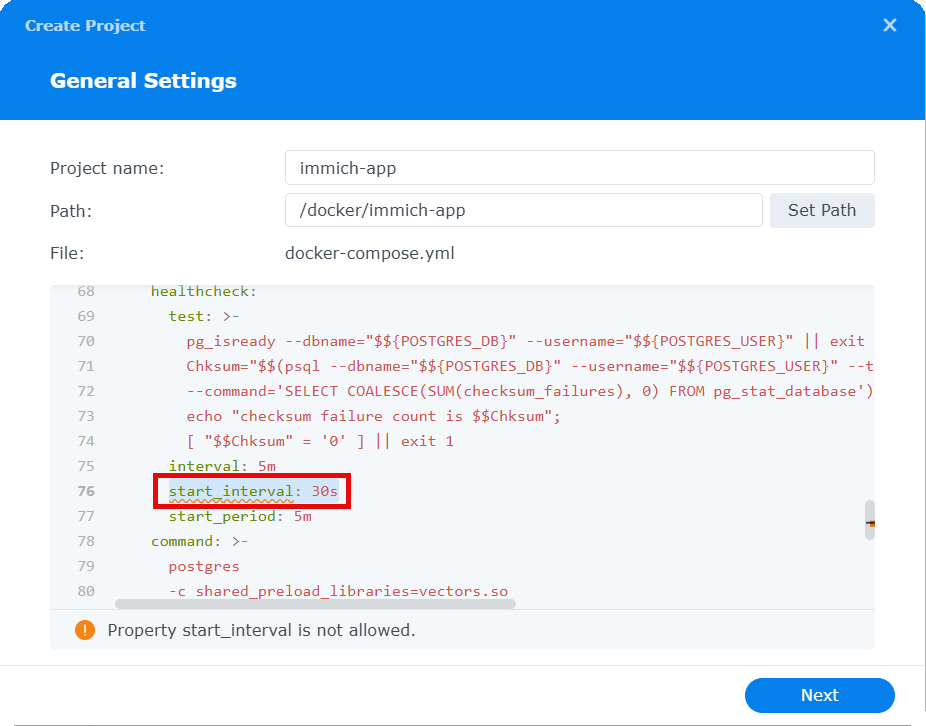
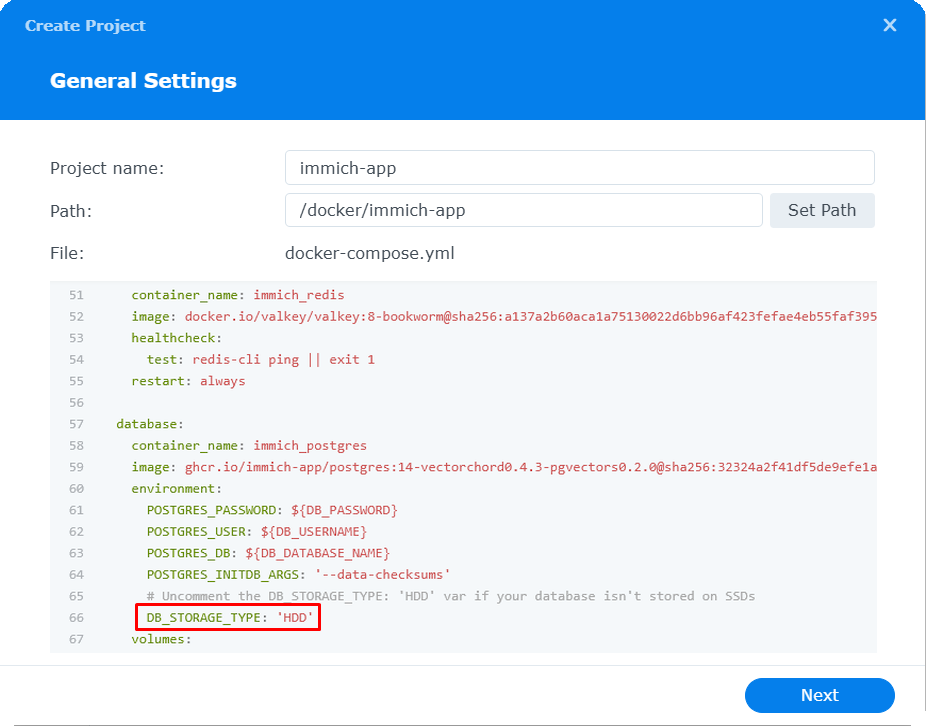
docs: update Synology install guide (#21996)

Changed region(s): [[0.0605, 0.3939, 0.9374, 0.9091], [0.6955, 0.8182, 0.8164, 0.8485], [0.9071, 0.697, 0.9676, 0.7576]]

diff --git a/docs/docs/install/synology.md b/docs/docs/install/synology.md
@@ -16,7 +16,7 @@ Immich can easily be installed on a Synology NAS using Container Manager within 
 
 ## Step 1 - Download the required files
 
-Create a directory of your choice (e.g. `./immich-app`) to house Immich. In general, it's a best practice to have all Docker-based applications running under the `./docker` directory, so in this case, your directory structure will look like `./docker/immich-app`.
+Create a directory of your choice (e.g. `./immich-app`) to house Immich. In general, it's best practice to have all Docker-based applications running under the `./docker` directory, so in this case, your directory structure will look like `./docker/immich-app`.
 
 Now create a `./postgres` and `./library` directory as sub-directories of the `./docker/immich-app`.
 
@@ -25,7 +25,7 @@ When you're all done, you should have the following:
 - `./docker/immich-app/postgres`
 - `./docker/immich-app/library`
 
-Download [`docker-compose.yml`](https://github.com/immich-app/immich/releases/latest/download/docker-compose.yml) and [`example.env`](https://github.com/immich-app/immich/releases/latest/download/example.env) to your computer. Upload the files to the `./docker/immich-app` directory, and rename `example.env` to `.env`.
+Download [`docker-compose.yml`](https://github.com/immich-app/immich/releases/latest/download/docker-compose.yml) and [`example.env`](https://github.com/immich-app/immich/releases/latest/download/example.env) to your computer. Upload the files to the `./docker/immich-app` directory, and rename `example.env` to `.env`. Note: If you plan to use the Synology Text editor to edit the `.env` file on the NAS within File Station, you will need to rename it to a temporary name (e.g. `example.txt`) in order to see 'Open with Text Editor' in the file context menu. Once saved, rename it back to `.env`.
 
 ## Step 2 - Populate the .env file with custom values
 
@@ -34,23 +34,23 @@ Follow [Step 2 in Docker Compose](/install/docker-compose#step-2---populate-the-
 ## Step 3 - Create a new project in Container Manager
 
 Open Container Manager, and select the "**Project**" action on the left navigation bar and then click "**Create**".
-![Create Project](../../static/img/synology-container-manager-create-project.png)
+![Create project](../../static/img/synology-container-manager-create-project.png)
 
 In the settings of your new project, set "**Project name**" to a name you'll remember, such as _immich-app_. When setting the "**Path**", select the `./docker/immich-app` directory you created earlier. Doing so will prompt a message to use the existing `docker-compose.yml` already present in the directory for your project. Click "**OK**" to continue.
 
-![Set Path](../../static/img/synology-container-manager-set-path.png)
+![Set path](../../static/img/synology-container-manager-set-path.png)
 
-The following screen will give you the option to further customize your `docker-compose.yml` file, giving you a warning regarding the `start_interval` property. Under the `healthcheck` heading, remove the `start_interval: 30s` completely and click "**Next**".
+The following screen will give you the option to further customize your `docker-compose.yml` file. Take note of `DB_STORAGE_TYPE: 'HDD'`and uncomment if applicable for your Synology setup.
 
-![start interval](../../static/img/synology-container-manager-customize-docker-compose.png)
+![DB storage](../../static/img/synology-container-manager-customize-docker-compose.png)
 
 Skip the section asking to set-up a portal for Web Station, and then complete the wizard which will build and start the containers for your project.
 
 Once your containers are successfully running, navigate to the "**Container**" section of Container Manager, right-click on the "**immich-server**" container, and choose the "**Details**".
 
-Scroll to the bottom of the "**Details**" section, and find the `IP Address` of the container, located in the `Network` section. Take note of the container's IP address as you will need it for **Step 4**.
+Scroll to the bottom of the "**Details**" section and find the `IP Address` listed in the `Network` section. Take note of the container's IP address as you will need it for **Step 4**.
 
-![Container Details](../../static/img/synology-container-manager-container-details.png)
+![Container details](../../static/img/synology-container-manager-container-details.png)
 
 ## Step 4 - Configure Firewall Settings
 
@@ -63,8 +63,66 @@ Open "**Control Panel**" on your Synology NAS, and select "**Security**". Naviga
 Click "**Edit Rules**" and add the following firewall rules:
 
 - Add a "**Source IP**" rule for the IP address of your container that you obtained in Step 3 above
+
+![IP address rule](../../static/img/synology-ipaddress-firewall-rule.png)
+
 - Add a "**Ports**" rule for the port specified in the `docker-compose.yml`, which should be `2283`
+
+![Custom port rule](../../static/img/synology-custom-port-firewall-rule.png)
 
 ## Next Steps
 
 Read the [Post Installation](/install/post-install.mdx) steps and [upgrade instructions](/install/upgrading.md).
+
+<details>
+  <summary>Updating Immich using Container Manager</summary>
+Check the post installation and upgrade instructions at the links above before proceeding with this section.
+
+## Step 1. Backup
+
+Ensure your photos and videos are backed up. Your `.env` settings will define where they are stored. There is no need to delete any files or folders within the `docker` folder when doing a release upgrade unless instructed in the release notes.
+
+## Step 2. Check release notes
+
+Always check the [release notes](https://github.com/immich-app/immich/releases) before proceeding with an update!
+
+## Step 3. Stop containers & clean up
+
+Open **Container Manager**. Select **Project** then your Immich app
+
+![Select project](../../static/img/synology-select-proj.png)
+
+Select **Stop**
+
+![Stop project](../../static/img/synology-project-stop.png)
+
+Select **Action** then **Clean**. This removes the containers.
+
+![Clean project](../../static/img/synology-action-clean.png)
+
+Go to **Image** and select **Remove Unused Images**.
+
+![Remove unused](../../static/img/synology-remove-unused.png)
+
+## Step 4. Build
+
+Go to **Project**, select **Action** then **Build**. This will download, unpack, install and start the containers.
+
+![Build](../../static/img/synology-build.png)
+
+## Step 5. Update firewall rule
+
+The default behavior is to automatically start the containers once installed. If `immich_server` runs for a few seconds and then stops, it may be because the firewall rule no longer matches the server IP address.
+
+Go to the **Container** section. Click on `immich_server` and scroll down on **General** to find the IP address.
+![Container IP](../../static/img/synology-container-ip.png)
+
+Go to Synology **Control Panel**. Select **Security** and **Firewall**.
+
+![Firewall](../../static/img/synology-fw-rules.png)
+
+In this example, the IP addresses mismatch and the firewall rule needs to be edited to match above.
+
+![Edit IP](../../static/img/synology-fw-ipedit.png)
+
+</details>
